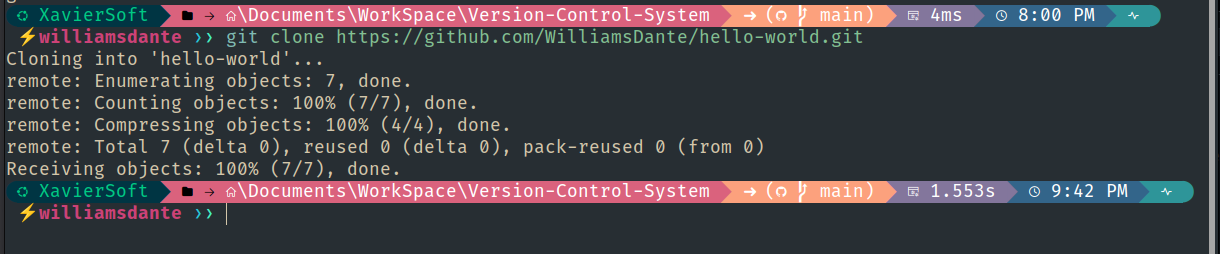
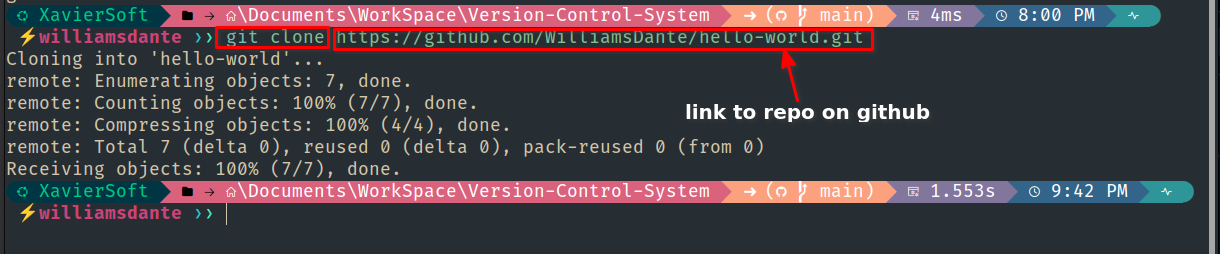
new img files added

Changed region(s): [[0.1557, 0.0827, 0.7164, 0.3583], [0.5607, 0.4134, 0.7787, 0.4685]]

diff --git a/README.md b/README.md
@@ -2,28 +2,43 @@
 
 ## Introduction
 
-This project is a showcase of how version control systems are utilised in software development within a team without having difficulties. A Version Control System (VCS) is a tool that tracks and manages changes to files and projects over time, allowing developers to collaborate, maintain code integrity, and easily rollback to previous versions. It essentially provides a history of all changes made to a project, enabling developers to revert to earlier states or compare different versions. 
+This project is a showcase of how version control systems are utilized in software development within a team without having difficulties. A Version Control System (VCS) is a tool that tracks and manages changes to files and projects over time, allowing developers to collaborate, maintain code integrity, and easily rollback to previous versions. It essentially provides a history of all changes made to a project, enabling developers to revert to earlier states or compare different versions. 
 
 ## Project Basics
-This project aims to illustrate the challenges of managing changes without version control. Through the process of manually copying and maintaining versions of a simple text file
+This project aims to illustrate the challenges of managing changes without version control. Through the process of manually copying and maintaining versions of a simple text file.
 
-## Mini Project: Requirments
+## Mini Project: Requirements
 
 ### GitHub User Dashboard
 
-I used the git and github as my version control system
+I used the git and github as my version control system.
 
-![GitHub Dashboard](./img/01%20GitHub%20Dashboard.png)
+![GitHub Dashboard](./img/01.%20GitHub%20Dashboard.png)
 
 ### Git Version
 
-using the code `git version` to know if git has been installed successfully
+using the code `git version` to know if git has been installed successfully.
 
 ![Git Version](./img/02.%20Git%20Version.png)
 
 ### Cloning Repo
 
-using the command `git clone` to clone my repository from github to my local machine
+using the command `git clone` to clone my repository from github to my local machine.
 
 ![git clone](./img/03.%20Git%20clone.png)
 
+### Git Status
+
+This command `git status` is used to know the current status of your repository.
+
+![git status](./img/04.%20Git%20Status.png)
+
+### Git Add and Git Commit
+
+The `git add` command is used to stage the changes you want to include to your local ripo and the `git commit` command command is used to save changes to the local repository in Git.
+
+![git add & commit](./img/05.%20Git%20Commit.png)
+
+### Git Push
+
+After committing, the changes are still only available on your local repository. To make them accessible to others, you need to push the changes to a remote repository using the `git push` command.
